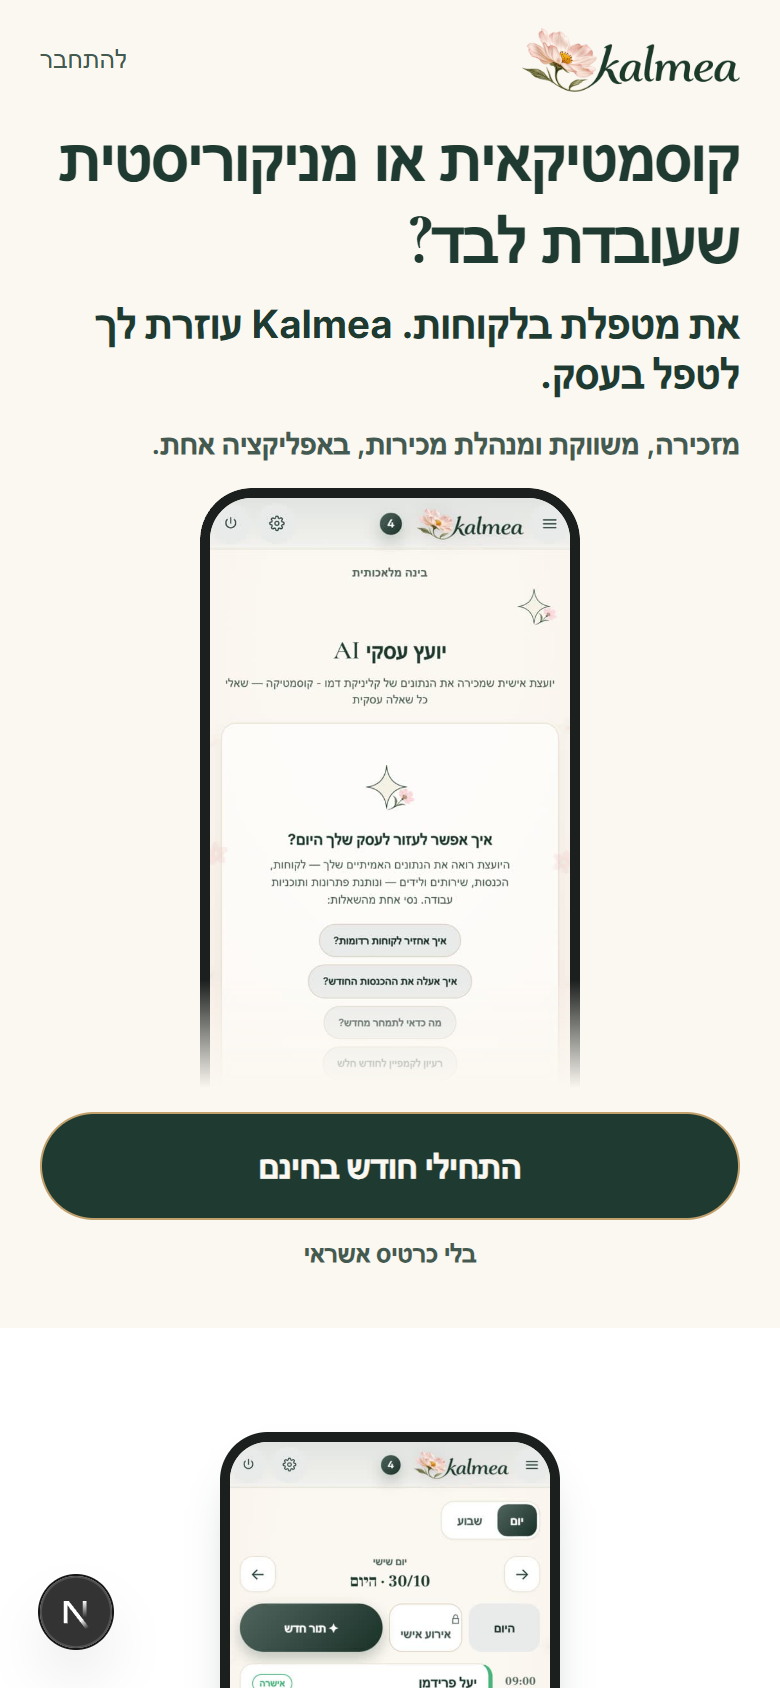
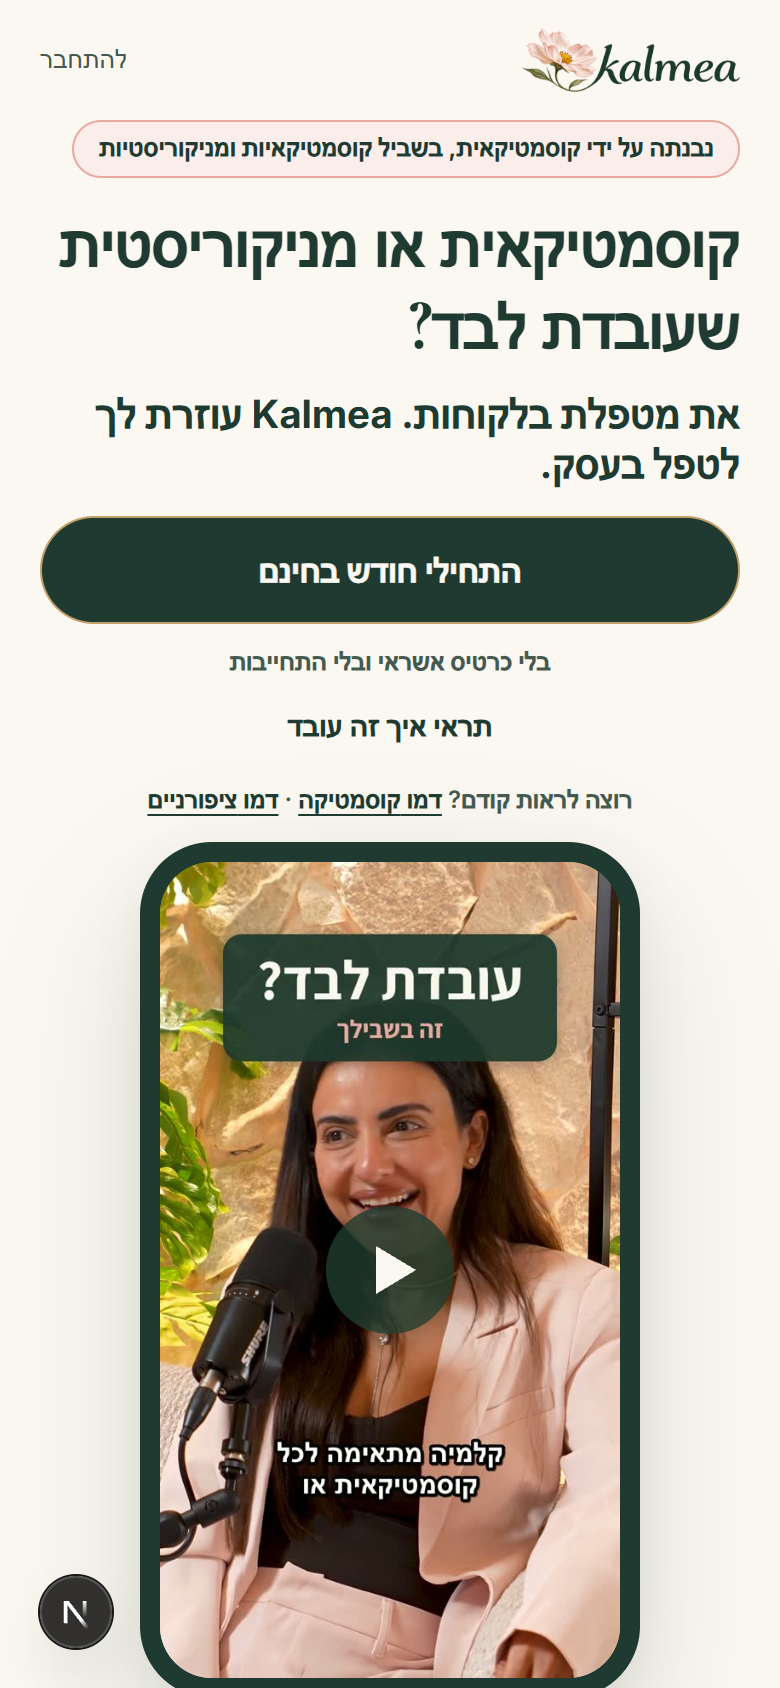
Landing: restore the original hero, keep the less-text sections below it
The opening section is byte-identical to origin/main before e1313b8 (kicker,
headline, subline, founder reel, button, "see how it works" link, demo
links, CSS). The three blocks now carry id="how" so that link lands on a
real section. The 12-word rule and its test cover everything below the hero.

diff --git a/test-landing.ts b/test-landing.ts
@@ -14,7 +14,8 @@ const words = (s: string) => s.trim().split(/\s+/).filter(Boolean).length;
 const copy = (s: string) => s.replace(/^\s*(\/\/|\{?\/\*).*$/gm, '');
 
 // The page above the FAQ, and the FAQ itself.
-const aboveFaq = page.slice(page.indexOf('<section className="lp-hero2">'), page.indexOf('6. FAQ'));
+// The hero is the original one (restored 2026-11-25) and is outside the 12-word rule; the rule covers everything below it.
+const belowHero = page.slice(page.indexOf('3. THREE BLOCKS'), page.indexOf('6. FAQ'));
 const hero = page.slice(page.indexOf('2. HERO'), page.indexOf('3. THREE BLOCKS'));
 const blocksSrc = page.slice(page.indexOf('const BLOCKS = ['), page.indexOf('// The comparison list'));
 const faqSrc = page.slice(page.indexOf('const faq = ['), page.indexOf('return (\n    <div dir="rtl"'));
@@ -53,7 +54,7 @@ ok('the terms page matches the landing: launch price 349 only, no end date', () 
 ok('"no credit card" sits next to both sign-up buttons, and there are exactly two', () => {
   assert.equal(page.split('href="/signup"').length - 1, 2);
   assert.ok((page.match(/בלי כרטיס אשראי/g) || []).length >= 2);
-  assert.match(hero, /התחילי חודש בחינם<\/Link>\s*<p className="lp-cta-note">בלי כרטיס אשראי<\/p>/);
+  assert.match(hero, /התחילי חודש בחינם<\/Link>\s*<p className="lp-cta-note">בלי כרטיס אשראי ובלי התחייבות<\/p>/);
   assert.match(page, /החודש הראשון חינם, בלי כרטיס אשראי\./);
 });
 
@@ -99,16 +100,28 @@ ok('the share card title matches the Hebrew page title', () => {
   assert.match(meta, /twitter: \{/);
 });
 
-ok('hero: the existing two-line slogan, one subline, the one-question screen above the one button', () => {
+ok('hero: the original opening, restored exactly (kicker, slogan, subline, founder reel, one button, quiet link, demo links)', () => {
+  assert.match(hero, /<p className="lp-kicker">נבנתה על ידי קוסמטיקאית, בשביל קוסמטיקאיות ומניקוריסטיות<\/p>/);
+  assert.ok(hero.indexOf('lp-kicker') > 0 && hero.indexOf('lp-kicker') < hero.indexOf('<h1'), 'the founder line sits right above the headline');
   assert.match(hero, /<h1[^>]*>קוסמטיקאית או מניקוריסטית שעובדת לבד\?<\/h1>/, 'who it is for IS the headline');
   assert.match(hero, /<p className="lp-h1-sub">את מטפלת בלקוחות\. Kalmea עוזרת לך לטפל בעסק\.<\/p>/);
-  assert.match(hero, /מזכירה, משווקת ומנהלת מכירות, באפליקציה אחת\./);
-  assert.equal((hero.match(/style=\{pillBtn\}/g) || []).length, 1, 'one button in the hero');
+  // The hero line names the deposit only while deposits are on for everyone; otherwise the same line without it.
+  assert.match(hero, /claims\.deposits \? "יומן, קופה ושיווק במערכת אחת\. הלקוחות קובעות, משלמות מקדמה ומזיזות תור לבד\." : "יומן, קופה ושיווק במערכת אחת\. הלקוחות קובעות ומזיזות תור לבד\."/);
+  assert.equal((page.match(/משלמות מקדמה/g) || []).length, 1);
+  assert.equal((hero.match(/style=\{pillBtn\}/g) || []).length, 1, 'one prominent button in the hero');
   assert.match(hero, /href="\/signup"[^>]*style=\{pillBtn\}>התחילי חודש בחינם/);
-  assert.ok(hero.indexOf('app-advisor.jpg') > hero.indexOf('<h1') && hero.indexOf('app-advisor.jpg') < hero.indexOf('href="/signup"'), 'screen between the text and the button');
-  assert.match(hero, /priority/);
-  assert.doesNotMatch(hero, /href="#how"|lp-kicker|DemoVideo/, 'nothing else competes in the hero');
+  assert.match(hero, /href="#how"/);
+  assert.match(page, /<section id="how"/, 'the quiet link lands on a real section');
+  assert.match(hero, /data-testid="hero-demos"/);
+  assert.match(hero, /DEMOS\.map/);
+  assert.doesNotMatch(hero, /<Link href=\{d\.href\}/, 'demo links are plain <a>, no prefetch');
+  // Owner, 2026-11-17: the hero shows her own explainer reel, with sound, and the file is there.
+  assert.match(page, /const HERO_VIDEO = true;/);
+  assert.match(hero, /<DemoVideo mp4="\/media\/landing-founder\.mp4" poster="\/media\/landing-founder\.jpg"[^>]*\bsound\b/);
+  assert.match(page, /photo-cosmetician\.jpg/);
+  assert.match(page, /photo-manicure\.jpg/);
 });
+
 
 ok('three blocks (secretary, marketing, sales): an icon, a title of at most 3 words, a line of at most 6, a real screen each', () => {
   const rows = [...blocksSrc.matchAll(/id: "(\w+)", icon: "(\w+)", title: "([^"]+)", text: "([^"]+)",\s*shot: "(\/landing\/[\w-]+\.jpg)"/g)];
@@ -122,10 +135,10 @@ ok('three blocks (secretary, marketing, sales): an icon, a title of at most 3 wo
   assert.match(page, /className="lp-block-shot"/);
 });
 
-ok('word budget: no block outside the FAQ has more than 12 words', () => {
+ok('word budget: no block below the hero and outside the FAQ has more than 12 words', () => {
   // Every static text node of the JSX above the FAQ, plus the strings of the data tables it renders.
-  const nodes = [...copy(aboveFaq).matchAll(/>([^<>{}]*[א-תA-Za-z0-9][^<>{}]*)</g)].map((m) => m[1].trim());
-  assert.ok(nodes.length >= 6, String(nodes.length));
+  const nodes = [...copy(belowHero).matchAll(/>([^<>{}]*[א-תA-Za-z0-9][^<>{}]*)</g)].map((m) => m[1].trim());
+  assert.ok(nodes.length >= 4, String(nodes.length));
   for (const t of nodes) assert.ok(words(t) <= 12, `too long (${words(t)}): ${t}`);
   for (const m of blocksSrc.matchAll(/(?:title|text): "([^"]+)"/g)) assert.ok(words(m[1]) <= 12, m[1]);
 });
@@ -143,7 +156,7 @@ ok('owner, 2026-10-30: nothing AI-made on the page, every screen is a real one',
   assert.doesNotMatch(page, /\/defaults\//, 'the /defaults/ pictures are AI-generated');
   assert.doesNotMatch(page, /presenter|PRESENTER|דמות AI/);
   for (const m of page.matchAll(/"\/landing\/([\w-]+\.jpg)"/g)) assert.ok(existsSync(`public/landing/${m[1]}`), m[1]);
-  assert.equal((page.match(/"\/landing\/app-[\w-]+\.jpg"/g) || []).length, 4, 'the hero screen and the three blocks');
+  assert.equal((page.match(/"\/landing\/app-[\w-]+\.jpg"/g) || []).length, 4, 'the three blocks and the hero fallback photo layout');
   assert.doesNotMatch(page, /[״"]\s*[א-ת ]+\s*[״"]\s*-\s*[א-ת]+/, 'no quoted testimonial');
 });
 
@@ -175,10 +188,11 @@ ok('existing links and analytics are intact: login, signup, legal footer, analyt
   assert.match(rd('app/landing/Testimonials.jsx'), /if \(list\.length === 0\) return null;/);
 });
 
-ok('mobile first: the hero is a single column with a cropped phone window, so the button stays above the fold', () => {
-  assert.match(css, /\.lp-hero2 \{[^}]*flex-direction: column/);
-  assert.match(css, /\.lp-hero2-phone \{[^}]*height: 300px/);
-  assert.match(css, /\.lp-hero2-cta \.kl-press \{ width: 100%/);
+ok('mobile first: the original hero is a single column, and the three blocks stack on a phone', () => {
+  assert.match(css, /\.lp-hero \{[^}]*flex-direction: column/);
+  assert.match(css, /\.lp-trio \{ display: grid; grid-template-columns: 1fr;/);
+  assert.doesNotMatch(css, /lp-hero2/, 'the replaced hero left no CSS behind');
 });
+
 
 console.log(`${n} passed`);

diff --git a/app/LandingPage.jsx b/app/LandingPage.jsx
@@ -4,8 +4,8 @@
 // Server component: everything below is static HTML on first paint except DemoVideo (a poster until she presses play).
 //
 // Less-text pass (2026-11-25): a visitor must get what Kalmea is in five seconds, from pictures, not paragraphs.
-// Structure: hero (slogan, one subline, the "one question" screen, one button) -> three blocks (secretary, marketing, sales)
-// -> founder strip -> price -> FAQ (closed). No block outside the FAQ is longer than 12 words. The long explanations of the
+// Structure: the original hero (kept exactly as it was, owner 2026-11-25) -> three blocks (secretary, marketing, sales)
+// -> founder strip -> price -> FAQ (closed). No block below the hero and outside the FAQ is longer than 12 words. The long explanations of the
 // old page (cost table, comparison list, before/after rows, "a real day", price details, founder story) now live in the FAQ,
 // word for word where they were already documented; nothing that is not live today is promised anywhere.
 //
@@ -74,6 +74,15 @@ const demoLinkStyle = { color: "var(--brand-accent)", fontWeight: 700, textDecor
 // The wordmark file's own size, so the page keeps its space before the image arrives.
 const WORDMARK_W = 600;
 const WORDMARK_H = 176;
+
+// Owner, 2026-11-17: the stock photos looked off; the hero shows her own explainer reel (reel 7, "עובדת לבד? זה בשבילך").
+// The photo hero stays in the code behind this flag.
+const HERO_VIDEO = true;
+
+const HERO_PHOTOS = [
+  { src: "/landing/photo-cosmetician.jpg", alt: "קוסמטיקאית מבצעת טיפול פנים ללקוחה", position: "center 58%" },
+  { src: "/landing/photo-manicure.jpg", alt: "מניקוריסטית מורחת לק על ציפורני לקוחה", position: "center 40%" },
+];
 
 const pillBtn = {
   display: "inline-flex", alignItems: "center", justifyContent: "center", gap: 8,
@@ -173,24 +182,50 @@ export default function LandingPage({ signedIn = false }) {
         </Link>
       </header>
 
-      {/* ── 2. HERO: the slogan, one subline, the "one question" screen, one button. All of it above the fold at 390px. ── */}
-      <section className="lp-hero2">
-        <div className="lp-hero2-text">
+      {/* ── 2. HERO: who it is for, in the headline, before any scroll. ───── */}
+      <section className="lp-hero">
+        <div className="lp-hero-text">
+          <p className="lp-kicker">נבנתה על ידי קוסמטיקאית, בשביל קוסמטיקאיות ומניקוריסטיות</p>
           <h1 className="serif lp-h1">קוסמטיקאית או מניקוריסטית שעובדת לבד?</h1>
           <p className="lp-h1-sub">את מטפלת בלקוחות. Kalmea עוזרת לך לטפל בעסק.</p>
-          <p className="lp-hero2-sub">מזכירה, משווקת ומנהלת מכירות, באפליקציה אחת.</p>
+          <p className="lp-hero-desc">{claims.deposits ? "יומן, קופה ושיווק במערכת אחת. הלקוחות קובעות, משלמות מקדמה ומזיזות תור לבד." : "יומן, קופה ושיווק במערכת אחת. הלקוחות קובעות ומזיזות תור לבד."}</p>
+          <div className="lp-hero-cta">
+            <Link href="/signup" className="kl-press" style={pillBtn}>התחילי חודש בחינם</Link>
+            <p className="lp-cta-note">בלי כרטיס אשראי ובלי התחייבות</p>
+            <a href="#how" className="kl-press lp-quiet">תראי איך זה עובד</a>
+            {/* Avatar pass (2026-11-22): each of the two businesses finds her own demo before any scroll. Plain <a>, as in section 9:
+                /demo/<field> signs into the demo account, and <Link> would prefetch it. */}
+            <p className="lp-cta-note" data-testid="hero-demos">
+              רוצה לראות קודם?{" "}
+              {DEMOS.map((d, i) => (
+                <span key={d.field}>
+                  {i > 0 && " · "}
+                  <a href={d.href} className="kl-press" style={{ color: "var(--brand-accent)", textDecoration: "underline", textUnderlineOffset: 3 }}>דמו {d.title}</a>
+                </span>
+              ))}
+            </p>
+          </div>
         </div>
-        <div className="lp-hero2-phone" data-testid="hero-phone">
-          <Image src="/landing/app-advisor.jpg" alt="צילום מסך של Kalmea: שאלה אחת ליועצת העסקית" width={560} height={1212} priority fetchPriority="high" sizes="200px" className="lp-shot-img" />
+        {HERO_VIDEO ? (
+          <div className="lp-hero-visual is-video" data-testid="hero-video">
+            <DemoVideo mp4="/media/landing-founder.mp4" poster="/media/landing-founder.jpg" label="מעיין, המייסדת, מסבירה למי Kalmea מתאימה" width={250} sound />
+          </div>
+        ) : (
+        <div className="lp-hero-visual">
+          {HERO_PHOTOS.map((photo) => (
+            <div key={photo.src} className="lp-hero-photo">
+              <Image src={photo.src} alt={photo.alt} fill priority fetchPriority="high" sizes="(max-width: 860px) 50vw, 280px" style={{ objectFit: "cover", objectPosition: photo.position }} />
+            </div>
+          ))}
+          <div className="lp-hero-phone">
+            <Image src="/landing/app-home.jpg" alt="צילום מסך אמיתי של מסך הבית של Kalmea" width={560} height={1212} priority sizes="180px" className="lp-shot-img" />
+          </div>
         </div>
-        <div className="lp-hero2-cta">
-          <Link href="/signup" className="kl-press" style={pillBtn}>התחילי חודש בחינם</Link>
-          <p className="lp-cta-note">בלי כרטיס אשראי</p>
-        </div>
+        )}
       </section>
 
       {/* ── 3. THREE BLOCKS: secretary, marketing, sales ──────────────────── */}
-      <section className="lp-sec is-white" data-testid="landing-blocks">
+      <section id="how" className="lp-sec is-white" data-testid="landing-blocks">
         <div className="lp-wrap">
           <div className="lp-trio">
             {BLOCKS.map((b) => (

diff --git a/app/globals.css b/app/globals.css
@@ -793,14 +793,8 @@ body:has(.sheet-backdrop) [role="dialog"][aria-label="פתיחה בדפדפן ש
   .lp-area-shot { height: 340px; }
   .lp-quotes { grid-template-columns: repeat(3, 1fr); }
 }
-/* Landing, less-text pass (2026-11-25): hero, three blocks, founder strip, price, FAQ. */
-.lp-hero2 { max-width: 1120px; margin: 0 auto; padding: 6px 20px 28px; display: flex; flex-direction: column; align-items: stretch; gap: 12px; }
-.lp-hero2-text { display: flex; flex-direction: column; gap: 10px; }
-.lp-hero2-sub { font-size: var(--t-md); line-height: 1.5; font-weight: 600; color: var(--ink-2); margin: 0; }
+/* Landing, less-text pass (2026-11-25): three blocks, founder strip, price, FAQ. */
 /* The phone is a window onto the top of the screen: the question and its four chips, the bottom bar cut off. */
-.lp-hero2-phone { align-self: center; width: 190px; height: 300px; overflow: hidden; border: 5px solid #1B1F1D; border-bottom: 0; border-radius: 26px 26px 0 0; background: #fff; box-shadow: 0 16px 30px -14px rgba(31, 58, 48, .55); -webkit-mask-image: linear-gradient(#000 82%, transparent); mask-image: linear-gradient(#000 82%, transparent); }
-.lp-hero2-cta { display: flex; flex-direction: column; align-items: stretch; text-align: center; gap: 2px; }
-.lp-hero2-cta .kl-press { width: 100%; box-sizing: border-box; }
 .lp-trio { display: grid; grid-template-columns: 1fr; gap: 26px; }
 .lp-block { display: flex; flex-direction: column; align-items: center; text-align: center; }
 .lp-block-shot { width: 170px; height: 230px; overflow: hidden; border: 5px solid #1B1F1D; border-radius: 24px; background: #fff; box-shadow: 0 14px 26px -14px rgba(31, 58, 48, .5); }
@@ -817,11 +811,6 @@ body:has(.sheet-backdrop) [role="dialog"][aria-label="פתיחה בדפדפן ש
 .lp-faq { max-width: 620px; margin: 0 auto; padding: 48px 20px 10px; }
 .lp-faq-title { font-size: clamp(22px, 6vw, 30px); font-weight: 700; color: var(--brand-accent); text-align: center; margin: 0; }
 @media (min-width: 860px) {
-  .lp-hero2 { display: grid; grid-template-columns: 1.1fr 1fr; align-items: center; column-gap: 44px; padding: 34px 20px 64px; }
-  .lp-hero2-phone { grid-column: 2; grid-row: 1 / span 2; width: 250px; height: 400px; justify-self: center; }
-  .lp-hero2-text { grid-column: 1; grid-row: 1; }
-  .lp-hero2-cta { grid-column: 1; grid-row: 2; align-items: flex-start; text-align: right; }
-  .lp-hero2-cta .kl-press { width: auto; }
   .lp-trio { grid-template-columns: repeat(3, 1fr); }
   .lp-block-shot { width: 210px; height: 290px; }
 }
